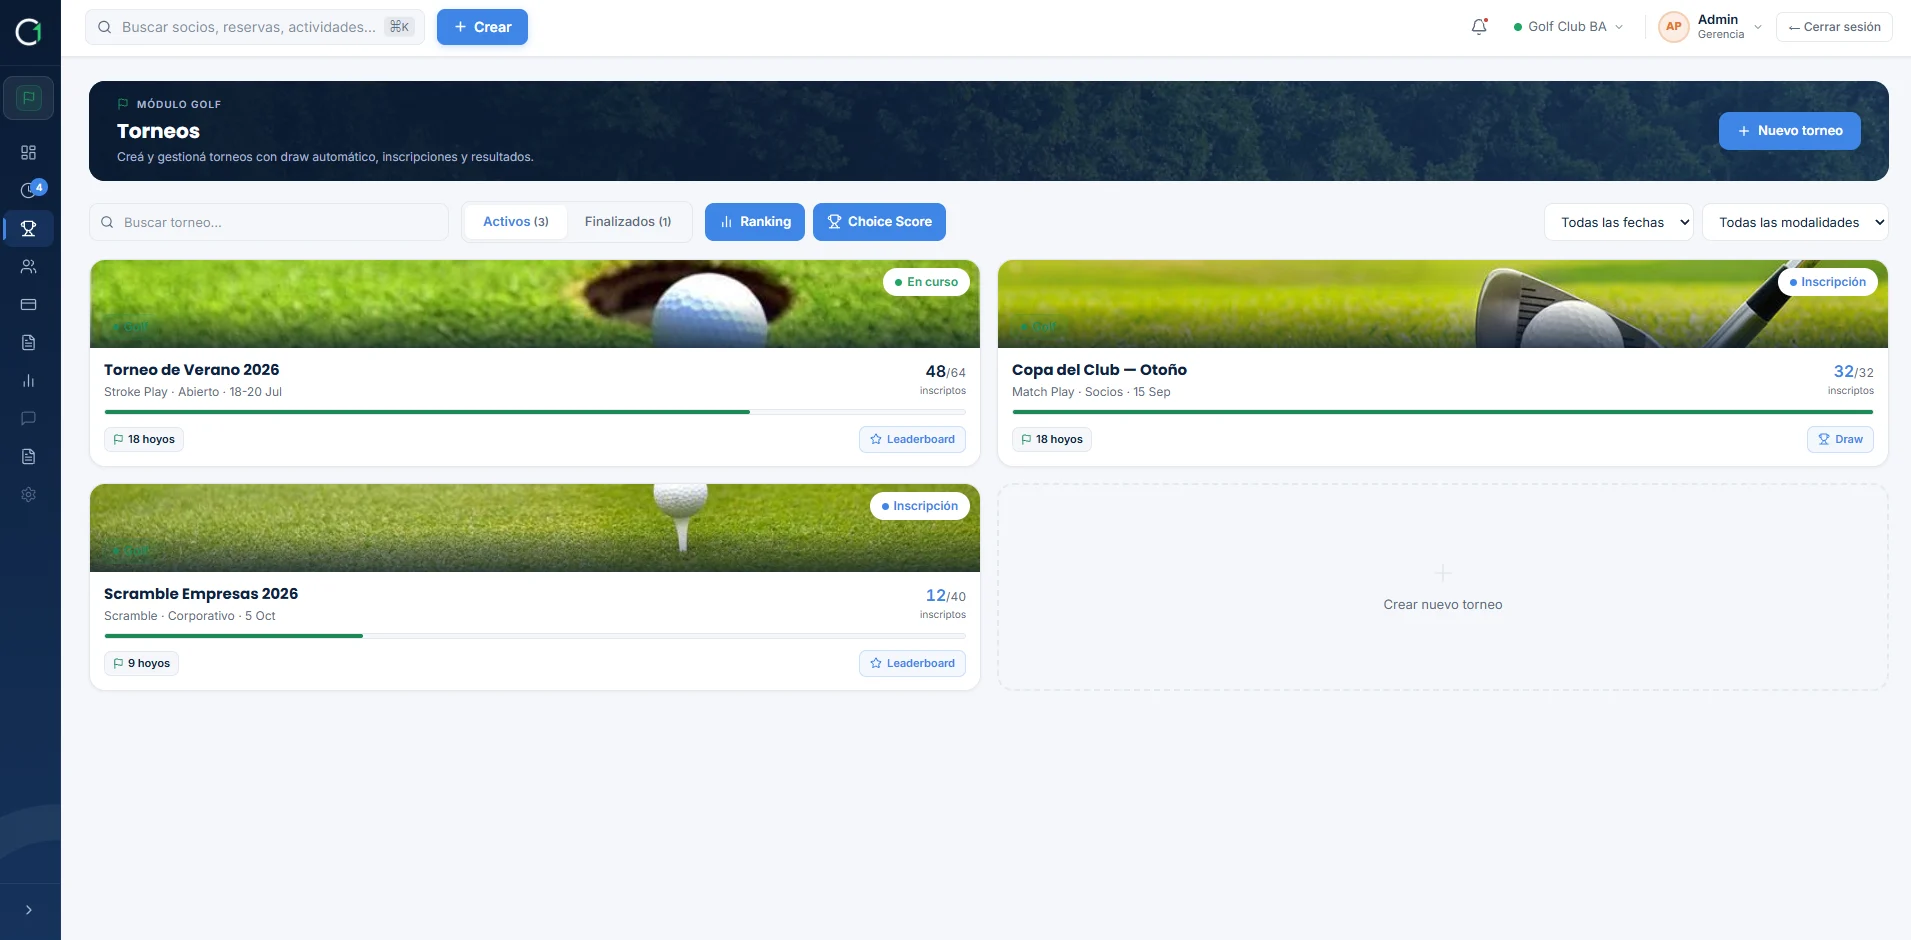
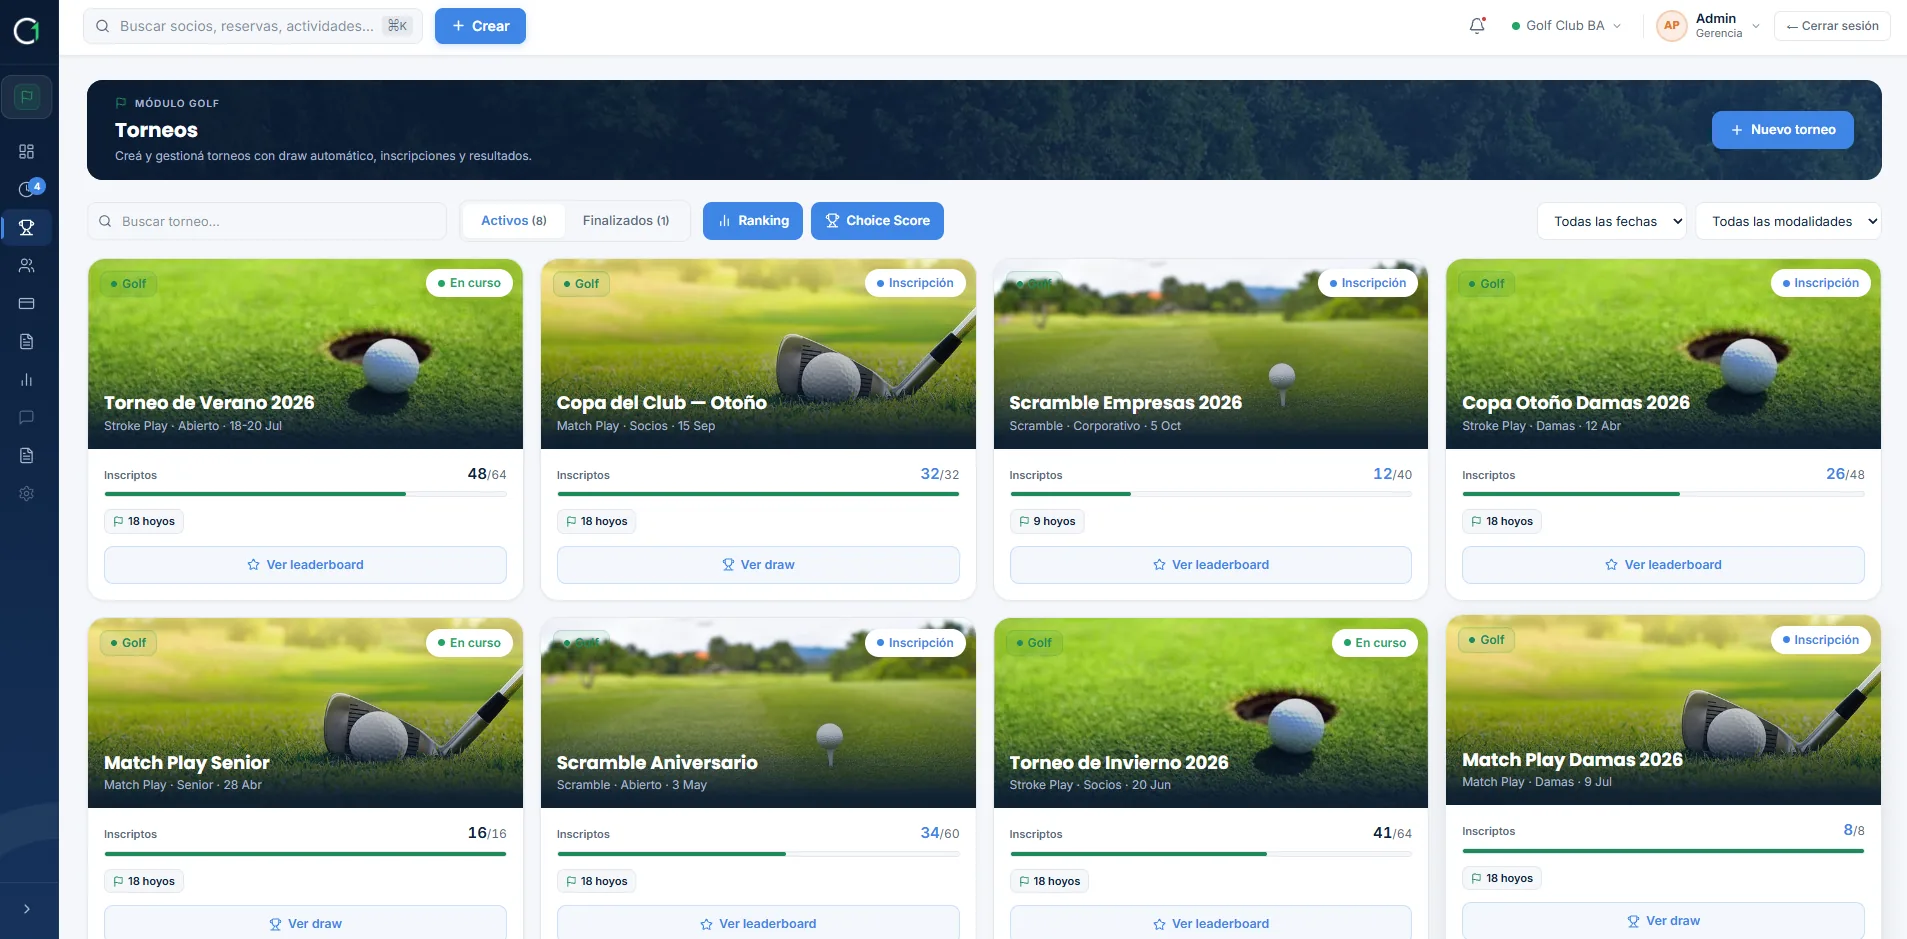
Add Driving Range, Mantenimiento, and Casilla/Academia tabs; swap in real torneos screenshot
Optimized the 4 raw screenshots/photos you pushed (2.2MB total)
down to web-ready assets (272KB total) and wired them in:

- driving-range.jpg — real photo, used as the new 'Driving Range'
  tab (object-cover, since it's a photo not a UI screenshot).
- shot-academia.webp — the Academia de Golf dashboard screenshot,
  used as the new 'Casilla de Palos y Academia' tab.
- shot-torneos.webp — replaced in place with the card/grid Torneos
  screenshot you sent. Since every place on the site that shows
  'torneos' content (Hero's cycling laptop, this tab section, the
  devices trio, and the Producto page's 'Gestión de torneos 360°'
  section) all point at this same filename, the real screenshot
  now shows everywhere instead of just here — verified each one.
- shot-torneos-lista.webp — the list-view Torneos screenshot you
  also sent is included but not wired into any UI yet, since only
  one replacement was requested; say where you'd like it used.
- 'Mantenimiento de Campo' has no photo yet, so it shows the same
  neutral placeholder block the 'Proshop' tab already used when it
  had no screenshot (generalized that check from tab==='proshop'
  to !shot, so any future no-image tab gets it automatically).

Removed the 4 raw uploaded files now that their optimized versions
exist under proper names.

Verified all 4 tabs plus the Producto page's torneo-360 section by
clicking through and screenshotting each in a real browser.

diff --git a/app/src/components/home/ActionTabsSection.tsx b/app/src/components/home/ActionTabsSection.tsx
@@ -6,7 +6,15 @@ import { useParallax } from '@/hooks/useParallax'
 import { cn } from '@/lib/utils'
 import { DURATION, EASE } from '@/lib/motion'
 
-type TabKey = 'tee' | 'torneos' | 'reportes' | 'facturacion' | 'proshop'
+type TabKey =
+  | 'tee'
+  | 'torneos'
+  | 'reportes'
+  | 'facturacion'
+  | 'proshop'
+  | 'driving'
+  | 'mantenimiento'
+  | 'casilla'
 
 const TABS: { key: TabKey; label: string }[] = [
   { key: 'tee', label: 'Tee Time' },
@@ -14,6 +22,9 @@ const TABS: { key: TabKey; label: string }[] = [
   { key: 'reportes', label: 'Reportes y BI' },
   { key: 'facturacion', label: 'Facturación' },
   { key: 'proshop', label: 'Proshop' },
+  { key: 'driving', label: 'Driving Range' },
+  { key: 'mantenimiento', label: 'Mantenimiento de Campo' },
+  { key: 'casilla', label: 'Casilla de Palos y Academia' },
 ]
 
 const AUTO_ORDER: TabKey[] = ['tee', 'torneos', 'reportes']
@@ -24,13 +35,18 @@ const CAPTIONS: Record<TabKey, string> = {
   tee: 'TEE TIMES· La operación del día, en vivo',
   facturacion: 'FACTURACIÓN · Cobros, caja y medios de pago',
   proshop: 'PROSHOP · Inventario y venta rápida',
+  driving: 'DRIVING RANGE · Práctica y entrenamiento',
+  mantenimiento: 'MANTENIMIENTO DE CAMPO · Cuidado de canchas y greens',
+  casilla: 'CASILLA DE PALOS Y ACADEMIA · Alumnos, profesores y clases',
 }
 
-const SHOTS: Partial<Record<TabKey, { src: string; alt: string; fit: 'contain' | 'fill' }>> = {
+const SHOTS: Partial<Record<TabKey, { src: string; alt: string; fit: 'contain' | 'fill' | 'cover' }>> = {
   reportes: { src: '/assets/shot-reportes.webp', alt: 'Reportes e inteligencia', fit: 'contain' },
   torneos: { src: '/assets/shot-torneos.webp', alt: 'Gestión de torneos', fit: 'contain' },
   tee: { src: '/assets/shot-teesheet.webp', alt: 'Tee sheet en tiempo real', fit: 'contain' },
   facturacion: { src: '/assets/facturacion.png', alt: 'Facturación y cobros', fit: 'fill' },
+  driving: { src: '/assets/driving-range.jpg', alt: 'Driving range', fit: 'cover' },
+  casilla: { src: '/assets/shot-academia.webp', alt: 'Casilla de palos y academia de golf', fit: 'contain' },
 }
 
 export function ActionTabsSection() {
@@ -109,7 +125,7 @@ export function ActionTabsSection() {
             <span className="w-[33px]" />
           </div>
           <div className="relative aspect-[1896/938] bg-white">
-            {tab === 'proshop' && <div className="absolute inset-0 bg-secondary" />}
+            {!shot && <div className="absolute inset-0 bg-secondary" />}
             <AnimatePresence>
               {shot && (
                 <motion.img
@@ -121,7 +137,12 @@ export function ActionTabsSection() {
                   animate={{ opacity: 1 }}
                   exit={shouldReduceMotion ? undefined : { opacity: 0 }}
                   transition={{ duration: DURATION.base, ease: EASE.out }}
-                  className={cn('absolute inset-0 size-full', shot.fit === 'contain' ? 'object-contain' : 'object-fill')}
+                  className={cn(
+                    'absolute inset-0 size-full',
+                    shot.fit === 'contain' && 'object-contain',
+                    shot.fit === 'cover' && 'object-cover',
+                    shot.fit === 'fill' && 'object-fill',
+                  )}
                 />
               )}
             </AnimatePresence>
